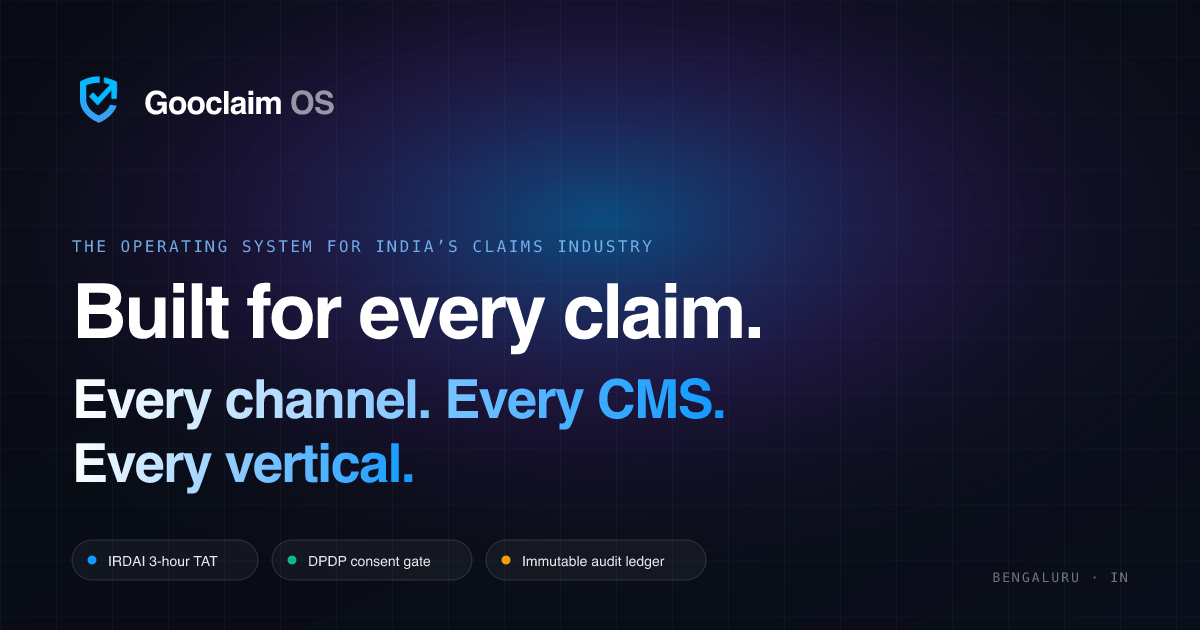
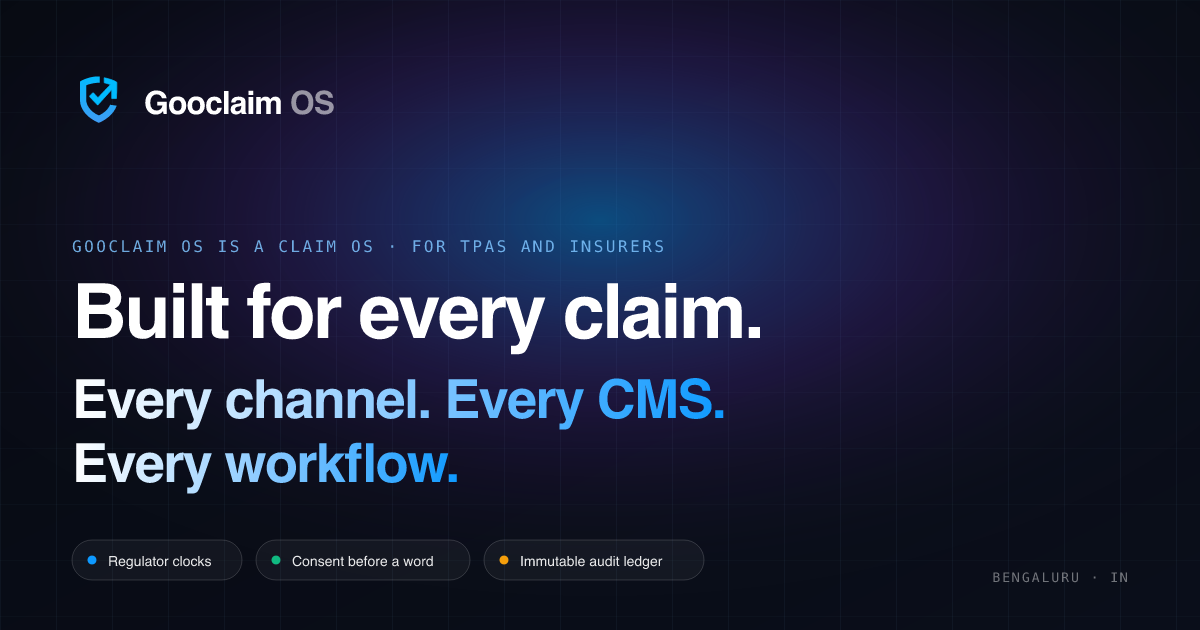
fix(country): the share image, the email and /in say where they are
What the site said had gone neutral, but what travels off it had not.

- The share image every link shows on LinkedIn or WhatsApp said "The
  operating system for India's claims industry", carried IRDAI and DPDP
  chips, and ended "Every vertical." It now leads "Gooclaim OS is a
  Claim OS · for TPAs and insurers" with neutral chips and the site's
  line, "Every workflow." /in gets its own image with India's chips.
- og:locale is set only where the page is a country's (en_IN on /in).
- The walkthrough confirmation email no longer names IRDAI in its text
  or footer.
- /in's hero says which country it is — "IN India | Change country" —
  and links back to the switcher.
- The Orion sample's rupee interest is labelled India.

diff --git a/api/waitlist.ts b/api/waitlist.ts
@@ -196,7 +196,7 @@ function userHtml(name: string): string {
             <div style="display:inline-block;padding:4px 10px;background-color:#ecfdf5;color:#059669;font-size:11px;font-weight:600;letter-spacing:0.04em;text-transform:uppercase;border-radius:999px;margin-bottom:14px">Walkthrough request received</div>
             <h1 style="margin:0 0 18px;font-size:24px;font-weight:600;color:#0f172a;letter-spacing:-0.015em;line-height:1.25">Hi ${esc(firstName)} — welcome to Gooclaim.</h1>
 
-            <p style="margin:0 0 16px;color:#374151;font-size:15px;line-height:1.65">Thanks for asking for a walkthrough. We work with a small number of TPAs and insurers at a time — on operations where we can actually move the needle on TAT, channel coverage, and IRDAI audit posture.</p>
+            <p style="margin:0 0 16px;color:#374151;font-size:15px;line-height:1.65">Thanks for asking for a walkthrough. We work with a small number of TPAs and insurers at a time — on operations where we can actually move the needle on turnaround, channel coverage, and audit posture.</p>
 
             <p style="margin:0 0 16px;color:#374151;font-size:15px;line-height:1.65">Someone from our team will write to you personally to fix a 20-minute slot — not a templated drip campaign. Usually within a week.</p>
 
@@ -216,7 +216,7 @@ function userHtml(name: string): string {
                   &nbsp;·&nbsp;
                   <a href="${SITE_URL}" style="color:#0d99ff;text-decoration:none">gooclaim.com</a>
                 </td>
-                <td align="right" style="color:#94a3b8;font-size:11.5px">IRDAI · DPDP · SHA-256 audit</td>
+                <td align="right" style="color:#94a3b8;font-size:11.5px">Regulator clocks · consent first · SHA-256 audit</td>
               </tr>
             </table>`;
 
@@ -234,7 +234,7 @@ function userText(name: string): string {
     "",
     "Thanks for asking for a walkthrough. We work with a small number of TPAs",
     "and insurers at a time, on operations where we can actually move the",
-    "needle on TAT, channel coverage, and IRDAI audit posture.",
+    "needle on turnaround, channel coverage, and audit posture.",
     "",
     "Someone from our team will write to you personally to fix a 20-minute",
     "slot — not a templated drip. Usually within a week.",

diff --git a/src/sections/HeroMeshGrid.tsx b/src/sections/HeroMeshGrid.tsx
@@ -289,6 +289,19 @@ export default function HeroMeshGrid({ market = "global" }: { market?: Market } 
       {/* Hero copy */}
       <div className="relative z-10 mx-auto flex w-full max-w-[1280px] flex-1 flex-col items-center justify-center px-5 pb-24 pt-6 text-center sm:px-10 sm:pb-32 sm:pt-12 lg:px-14">
         <div data-hero-parallax>
+          {india && (
+            // Which country this page is, and the way back to the others.
+            <div className="flex justify-center">
+              <Link
+                to="/"
+                className="mb-4 inline-flex min-h-[44px] items-center gap-2 rounded-full px-3 font-display text-[11px] uppercase tracking-wider2 text-white/55 transition-colors hover:text-white sm:min-h-0 sm:py-1.5"
+              >
+                <span className="text-emerald-400">IN</span> India
+                <span aria-hidden className="h-3 w-px bg-white/20" />
+                <span className="normal-case tracking-normal text-white/45">Change country</span>
+              </Link>
+            </div>
+          )}
           <motion.div
             initial={{ opacity: 0, y: 12 }}
             animate={{ opacity: 1, y: 0 }}

diff --git a/src/lib/seo.ts b/src/lib/seo.ts
@@ -7,7 +7,6 @@ export const SITE = {
   defaultDescription:
     "Gooclaim OS is a Claim OS for TPAs and insurers. Built for every claim — every channel, every CMS, every workflow — with consent, approved messages and an audit trail on every claim.",
   defaultOgImage: "/og-default.png",
-  locale: "en_IN",
 };
 
 export interface PageSEO {
@@ -15,6 +14,8 @@ export interface PageSEO {
   description: string;
   ogImage?: string;
   keywords?: string;
+  /** `og:locale`, only on a country page (`en_IN`); the other pages serve every country. */
+  locale?: string;
 }
 
 /**
@@ -41,6 +42,8 @@ export const SEO_INDIA: PageSEO = {
     "Gooclaim OS for India: IRDAI's 1-hour, 3-hour and 15-day clocks on every claim, DPDP consent before a word, and members answered on WhatsApp and email in English, Hindi and Hinglish.",
   keywords:
     "claims automation India, IRDAI cashless, IRDAI 15 days, DPDP compliance, TPA software India, health insurance claims India",
+  ogImage: "/og-india.png",
+  locale: "en_IN",
 };
 
 export const SEO_PRICING: PageSEO = {

diff --git a/src/sections/OrionCoworker.tsx b/src/sections/OrionCoworker.tsx
@@ -120,7 +120,7 @@ function PulseView() {
   return (
     <div className="space-y-2.5">
       {[
-        { claim: "CLM-24817", why: "Documents still outstanding", sub: "Reimbursement · 2 of 3 received · reminder 2 sent", clock: "Past 15 days", tone: "#ef4444", extra: "₹410 interest est." },
+        { claim: "CLM-24817", why: "Documents still outstanding", sub: "Reimbursement · 2 of 3 received · reminder 2 sent", clock: "Past 15 days", tone: "#ef4444", extra: "₹410 interest est. · India" },
         { claim: "CLM-24833", why: "Uploaded file held for checking", sub: "Reimbursement · final bill · awaiting review", clock: "13 days left", tone: "#10b981", extra: "Raised automatically" },
         { claim: "CLM-24790", why: "Open complaint after a decision", sub: "Rejected · complaint received · resolve by 28 Oct", clock: "12 days left", tone: "#f59e0b", extra: "Needs an owner" },
       ].map((r) => (

diff --git a/src/components/SEOHead.tsx b/src/components/SEOHead.tsx
@@ -34,7 +34,7 @@ export default function SEOHead({ seo, path, jsonLd, alternates = [] }: Props) {
       <meta property="og:image" content={ogImage} />
       <meta property="og:image:width" content="1200" />
       <meta property="og:image:height" content="630" />
-      <meta property="og:locale" content={SITE.locale} />
+      {seo.locale && <meta property="og:locale" content={seo.locale} />}
 
       {/* Twitter */}
       <meta name="twitter:card" content="summary_large_image" />
